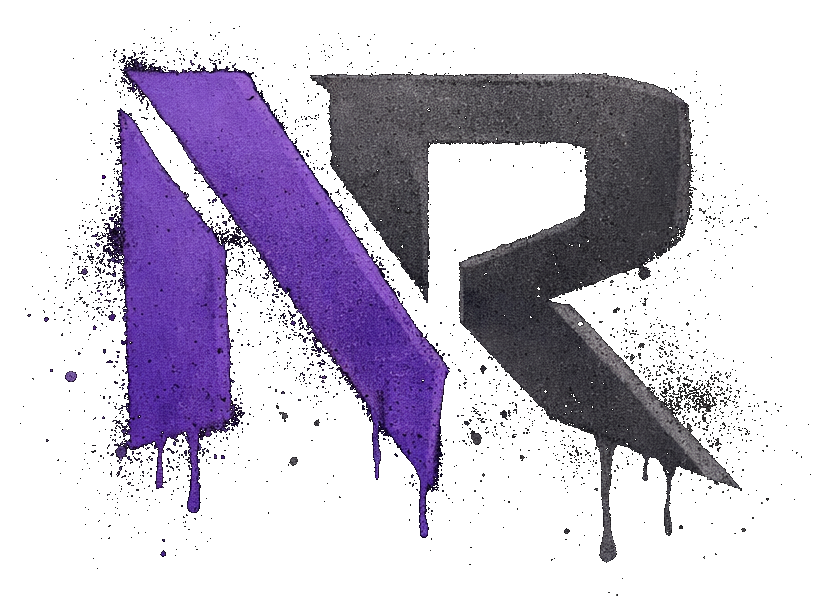
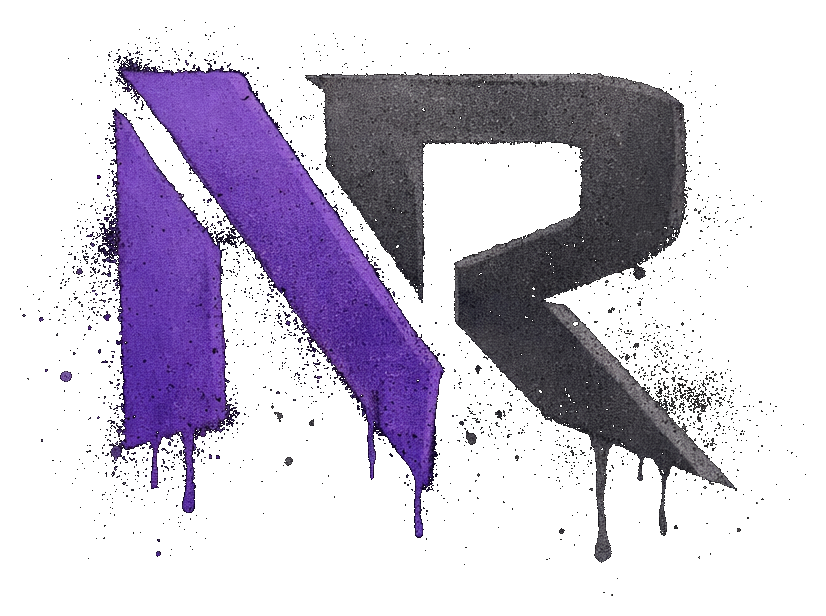
Add files via upload

diff --git a/src/style.css b/src/style.css
@@ -1,130 +1,11 @@
 @import url('https://fonts.googleapis.com/css2?family=Anton&family=Inter:wght@400;600;700;800;900&display=swap');
 
-:root{
-  --black:#020202;
-  --line:rgba(255,255,255,.13);
-  --purple:#8c2cff;
-  --purple2:#a855f7;
-  --silver:#b9b9bf;
-  --white:#f4f4f4;
-}
-
-*{box-sizing:border-box}
-html{scroll-behavior:smooth}
-body{margin:0;background:var(--black);color:var(--white);font-family:Inter,Arial,sans-serif}
-a{text-decoration:none;color:inherit}
-.site{background:#020202;min-height:100vh;overflow-x:hidden}
-.site:before{content:"";position:fixed;inset:0;pointer-events:none;z-index:50;opacity:.035;background-image:linear-gradient(rgba(255,255,255,.12) 1px,transparent 1px),linear-gradient(90deg,rgba(255,255,255,.1) 1px,transparent 1px);background-size:38px 38px}
-
-.topbar{height:86px;display:grid;grid-template-columns:275px 1fr 120px;align-items:center;gap:28px;padding:0 42px;background:#030303;border-bottom:1px solid var(--line);position:sticky;top:0;z-index:20}
-.brand-logo{display:flex;align-items:center;gap:14px}
-.nr-mark{display:block;height:auto;object-fit:contain}
-.brand-logo .nr-mark{width:76px}
-.brand-words{display:grid;gap:4px}
-.brand-words span,.main-words span{font-weight:900;letter-spacing:.31em;line-height:1;text-transform:uppercase}
-.notrite{color:var(--purple2)}
-.recordings{color:var(--silver)}
-.brand-words span{font-size:15px}
-.topbar nav{display:flex;justify-content:center;gap:clamp(13px,1.8vw,30px);font-family:Anton,Impact,sans-serif;text-transform:uppercase;letter-spacing:.1em;font-size:15px}
-.topbar nav a:first-child,.topbar nav a:hover{color:var(--purple2)}
-.social-icons{display:flex;gap:18px;justify-content:flex-end;font-size:22px}
-
-.hero{position:relative;min-height:585px;display:grid;grid-template-columns:.95fr 1.05fr;align-items:center;padding:58px 7vw;border-bottom:1px solid var(--line);overflow:hidden}
-.hero-bg{position:absolute;inset:0;background:
-  linear-gradient(90deg,rgba(0,0,0,.82) 0%,rgba(0,0,0,.48) 28%,rgba(0,0,0,.12) 54%,rgba(0,0,0,.42) 100%),
-  linear-gradient(0deg,#020202 0%,rgba(0,0,0,.06) 44%,#050505 100%),
-  url('/assets/hero-crowd.jpg') center center/cover;
-  filter:contrast(1.18) brightness(.95) saturate(1.05)
-}
-.hero-bg:after{content:"";position:absolute;inset:0;background:radial-gradient(circle at 63% 42%,rgba(140,44,255,.28),transparent 30%),linear-gradient(90deg,rgba(0,0,0,.58),transparent 48%)}
-.hero-copy,.hero-logo{position:relative;z-index:2}
-.eyebrow{margin:0 0 18px;color:var(--purple2);text-transform:uppercase;font-weight:900;letter-spacing:.28em;font-size:14px}
-.hero h1{margin:0 0 22px;font-family:Anton,Impact,sans-serif;text-transform:uppercase;font-size:clamp(54px,6.3vw,105px);line-height:.95;letter-spacing:.01em;text-shadow:0 9px 32px #000}
-.hero h1 span,.hero h1 strong{display:block}
-.hero h1 span{color:#e7e7e7}
-.hero h1 strong{color:var(--purple2);font-weight:inherit}
-.hero h1 strong:after{content:"";display:block;width:210px;height:5px;margin-top:10px;background:linear-gradient(90deg,var(--purple),transparent);transform:skew(-13deg)}
-.intro{max-width:450px;line-height:1.7;color:#eee;font-size:17px}
-.buttons{display:flex;gap:18px;flex-wrap:wrap;margin-top:28px}
-.btn{min-height:48px;padding:0 28px;display:inline-flex;align-items:center;justify-content:center;border:1px solid rgba(255,255,255,.38);font-family:Anton,Impact,sans-serif;text-transform:uppercase;letter-spacing:.14em;font-size:14px}
-.btn.primary{background:linear-gradient(135deg,#7720cf,#a855f7);border-color:transparent}
-.btn.ghost{background:rgba(0,0,0,.42)}
-.btn.small{min-height:38px;margin-top:12px}
-.scroll{display:inline-block;margin-top:24px;color:var(--purple2);text-transform:uppercase;letter-spacing:.18em;font-size:12px}
-.hero-logo{display:grid;place-items:center}
-.main-logo{text-align:center;max-width:500px}
-.main-logo .nr-mark{width:min(355px,72vw);margin:0 auto 8px;filter:drop-shadow(0 20px 36px rgba(0,0,0,.8))}
-.main-words{display:grid;gap:9px;justify-items:center}
-.main-words .notrite{font-size:clamp(32px,3.4vw,58px)}
-.main-words .recordings{font-size:clamp(23px,2.25vw,38px);letter-spacing:.34em}
-
-.featured{display:grid;grid-template-columns:330px 1fr 1.35fr;border-bottom:1px solid var(--line)}
-.featured>div,.artists{padding:34px 42px;border-right:1px solid var(--line)}
-.artists{border-right:0}
-.release-art{min-height:260px;background:radial-gradient(circle at 55% 38%,rgba(140,44,255,.36),transparent 28%),#070707;border:1px solid rgba(255,255,255,.12);display:flex;flex-direction:column;justify-content:space-between;padding:22px}
-.release-art .nr-mark{width:72px}
-.release-art h2,.release-info h2,.section-head h2,.about h2,.contact h2,.signup h2{font-family:Anton,Impact,sans-serif;text-transform:uppercase;letter-spacing:.04em;line-height:.98;margin:0}
-.release-art h2{font-size:42px}
-.release-art small,.release-info small,.release-grid small{color:var(--purple2);font-weight:900;letter-spacing:.15em}
-.release-art p,.release-info h3{color:var(--purple2);text-transform:uppercase;letter-spacing:.13em}
-.release-info h2{font-size:42px;margin:12px 0 8px}
-.release-info p{color:#d4d4d8;line-height:1.65;max-width:430px}
-.platforms{display:flex;gap:20px;flex-wrap:wrap;color:#ddd;margin-top:18px}
-.section-head{display:flex;align-items:baseline;justify-content:space-between;gap:18px;margin-bottom:20px}
-.section-head h2{font-size:32px;position:relative}
-.section-head h2:after{content:"";position:absolute;left:0;bottom:-8px;width:70px;height:3px;background:var(--purple)}
-.section-head a{color:var(--purple2);text-transform:uppercase;font-weight:800;font-size:12px;letter-spacing:.12em}
-.artist-strip{display:grid;grid-template-columns:repeat(5,1fr);gap:14px}
-.artist-strip article{min-height:185px;display:flex;flex-direction:column;justify-content:space-between;text-align:center;background:linear-gradient(180deg,rgba(255,255,255,.04),rgba(0,0,0,.6));border:1px solid rgba(255,255,255,.08);padding:17px}
-.artist-strip span{font-family:Anton,Impact,sans-serif;font-size:50px;color:rgba(255,255,255,.24);margin:auto}
-.artist-strip h3,.release-grid h3,.merch h3{font-family:Anton,Impact,sans-serif;text-transform:uppercase;letter-spacing:.05em;margin:0;font-size:18px}
-
-.releases{padding:34px 42px;border-bottom:1px solid var(--line)}
-.release-grid{display:grid;grid-template-columns:repeat(4,1fr);gap:22px}
-.mini-art,.product{aspect-ratio:1;display:grid;place-items:center;background:radial-gradient(circle at 50% 35%,rgba(140,44,255,.25),transparent 30%),#0b0b0b;border:1px solid rgba(255,255,255,.1)}
-.mini-art .nr-mark{width:54%;opacity:.86}
-.release-grid p,.merch p{margin:2px 0 0;color:#aaa;text-transform:uppercase;font-size:12px}
-
-.lower{display:grid;grid-template-columns:1fr 1fr;border-bottom:1px solid var(--line)}
-.panel{padding:34px 42px;border-bottom:1px solid var(--line);border-right:1px solid var(--line)}
-.panel:nth-child(even){border-right:0}
-.merch-grid{display:grid;grid-template-columns:repeat(4,1fr);gap:15px}
-.product{font-family:Anton,Impact,sans-serif;font-size:42px;color:#999}
-.event-card{min-height:220px;display:flex;align-items:center;gap:28px;padding:26px;background:linear-gradient(90deg,rgba(0,0,0,.75),rgba(0,0,0,.1)),url('/assets/hero-crowd.jpg') center/cover;border:1px solid rgba(255,255,255,.1)}
-.date{width:75px;height:90px;display:grid;place-items:center;border:1px solid var(--purple);font-family:Anton,Impact,sans-serif;font-size:26px;text-align:center}
-.date span{font-size:12px;color:#bbb}
-.event h3{font-family:Anton,Impact,sans-serif;text-transform:uppercase;font-size:34px;margin:0}
-.event p,.signup p{color:#bbb}
-.signup{grid-column:1 / 3;display:grid;grid-template-columns:82px 1fr 1.35fr;gap:28px;align-items:center}
-.mail-icon{width:70px;height:70px;display:grid;place-items:center;border:1px solid var(--purple);font-size:34px;box-shadow:0 0 0 14px rgba(140,44,255,.13)}
-.signup form{display:flex}
-.signup input{flex:1;min-height:50px;background:#030303;border:1px solid rgba(255,255,255,.2);color:#fff;padding:0 16px}
-.signup button{width:170px;background:linear-gradient(135deg,#7720cf,#a855f7);border:0;color:#fff;font-family:Anton,Impact,sans-serif;text-transform:uppercase;letter-spacing:.14em}
-
-.about,.contact{display:grid;grid-template-columns:1fr 1fr;gap:48px;align-items:center;padding:65px 7vw;border-bottom:1px solid var(--line)}
-.about h2,.contact h2{font-size:54px;margin:12px 0}
-.about p:not(.eyebrow),.contact p{color:#d4d4d8;line-height:1.7;max-width:640px}
-.about .main-logo{opacity:.6;transform:scale(.82)}
-.emails{display:grid;gap:12px}
-.emails a{border:1px solid rgba(255,255,255,.15);padding:16px 18px;color:#ddd}
-footer{display:grid;grid-template-columns:275px 1fr 250px;gap:30px;padding:38px 42px;color:#aaa}
-footer p{margin:0;line-height:1.7}
-
-@media(max-width:1200px){
-  .topbar{grid-template-columns:260px 1fr}.social-icons{display:none}
-  .featured{grid-template-columns:1fr 1fr}.artists{grid-column:1/3;border-top:1px solid var(--line)}
-}
-@media(max-width:900px){
-  .topbar{height:auto;display:block;padding:18px 22px}.topbar nav{margin-top:16px;overflow:auto;justify-content:flex-start;padding-bottom:8px}
-  .hero,.about,.contact{grid-template-columns:1fr}.hero{min-height:auto;padding:52px 24px}.hero-logo{margin-top:32px}
-  .featured{grid-template-columns:1fr}.featured>div,.artists{border-right:0;border-bottom:1px solid var(--line)}.artists{grid-column:auto}
-  .artist-strip,.release-grid,.merch-grid{grid-template-columns:repeat(2,1fr)}
-  .lower{grid-template-columns:1fr}.panel{border-right:0}.signup{grid-column:auto;grid-template-columns:1fr}.signup form{display:grid}.signup button{width:100%;min-height:50px}
-  footer{grid-template-columns:1fr}
-}
-@media(max-width:520px){
-  .brand-logo .nr-mark{width:66px}.brand-words span{font-size:13px}
-  .hero h1{font-size:54px}.buttons{display:grid}.btn{width:100%}
-  .artist-strip,.release-grid,.merch-grid{grid-template-columns:1fr}
-  .featured>div,.artists,.releases,.panel,.about,.contact,footer{padding-left:22px;padding-right:22px}
-}
+:root{--black:#020202;--line:rgba(255,255,255,.13);--purple:#8c2cff;--purple2:#a855f7;--silver:#b9b9bf;--white:#f4f4f4}
+*{box-sizing:border-box}html{scroll-behavior:smooth}body{margin:0;background:var(--black);color:var(--white);font-family:Inter,Arial,sans-serif}a{text-decoration:none;color:inherit}.site{background:#020202;min-height:100vh;overflow-x:hidden}.site:before{content:"";position:fixed;inset:0;pointer-events:none;z-index:50;opacity:.035;background-image:linear-gradient(rgba(255,255,255,.12) 1px,transparent 1px),linear-gradient(90deg,rgba(255,255,255,.1) 1px,transparent 1px);background-size:38px 38px}
+.topbar{height:86px;display:grid;grid-template-columns:275px 1fr 120px;align-items:center;gap:28px;padding:0 42px;background:#030303;border-bottom:1px solid var(--line);position:sticky;top:0;z-index:20}.brand-logo{display:flex;align-items:center;gap:14px}.nr-mark{display:block;height:auto;object-fit:contain}.brand-logo .nr-mark{width:76px}.brand-words{display:grid;gap:4px}.brand-words span,.main-words span{font-weight:900;letter-spacing:.31em;line-height:1;text-transform:uppercase}.notrite{color:var(--purple2)}.recordings{color:var(--silver)}.brand-words span{font-size:15px}.topbar nav{display:flex;justify-content:center;gap:clamp(13px,1.8vw,30px);font-family:Anton,Impact,sans-serif;text-transform:uppercase;letter-spacing:.1em;font-size:15px}.topbar nav a:first-child,.topbar nav a:hover{color:var(--purple2)}.social-icons{display:flex;gap:18px;justify-content:flex-end;font-size:22px}
+.hero{position:relative;min-height:585px;display:grid;grid-template-columns:.95fr 1.05fr;align-items:center;padding:58px 7vw;border-bottom:1px solid var(--line);overflow:hidden}.hero-bg{position:absolute;inset:0;background:linear-gradient(90deg,rgba(0,0,0,.82) 0%,rgba(0,0,0,.48) 28%,rgba(0,0,0,.12) 54%,rgba(0,0,0,.42) 100%),linear-gradient(0deg,#020202 0%,rgba(0,0,0,.06) 44%,#050505 100%),url('/assets/hero-crowd.jpg') center center/cover;filter:contrast(1.18) brightness(.95) saturate(1.05)}.hero-bg:after{content:"";position:absolute;inset:0;background:radial-gradient(circle at 63% 42%,rgba(140,44,255,.28),transparent 30%),linear-gradient(90deg,rgba(0,0,0,.58),transparent 48%)}.hero-copy,.hero-logo{position:relative;z-index:2}.eyebrow{margin:0 0 18px;color:var(--purple2);text-transform:uppercase;font-weight:900;letter-spacing:.28em;font-size:14px}.hero h1{margin:0 0 22px;font-family:Anton,Impact,sans-serif;text-transform:uppercase;font-size:clamp(54px,6.3vw,105px);line-height:.95;letter-spacing:.01em;text-shadow:0 9px 32px #000}.hero h1 span,.hero h1 strong{display:block}.hero h1 span{color:#e7e7e7}.hero h1 strong{color:var(--purple2);font-weight:inherit}.hero h1 strong:after{content:"";display:block;width:210px;height:5px;margin-top:10px;background:linear-gradient(90deg,var(--purple),transparent);transform:skew(-13deg)}.intro{max-width:450px;line-height:1.7;color:#eee;font-size:17px}.buttons{display:flex;gap:18px;flex-wrap:wrap;margin-top:28px}.btn{min-height:48px;padding:0 28px;display:inline-flex;align-items:center;justify-content:center;border:1px solid rgba(255,255,255,.38);font-family:Anton,Impact,sans-serif;text-transform:uppercase;letter-spacing:.14em;font-size:14px}.btn.primary{background:linear-gradient(135deg,#7720cf,#a855f7);border-color:transparent}.btn.ghost{background:rgba(0,0,0,.42)}.btn.small{min-height:38px;margin-top:12px}.hero-logo{display:grid;place-items:center}.main-logo{text-align:center;max-width:500px}.main-logo .nr-mark{width:min(355px,72vw);margin:0 auto 8px;filter:drop-shadow(0 20px 36px rgba(0,0,0,.8))}.main-words{display:grid;gap:9px;justify-items:center}.main-words .notrite{font-size:clamp(32px,3.4vw,58px)}.main-words .recordings{font-size:clamp(23px,2.25vw,38px);letter-spacing:.34em}
+.featured{display:grid;grid-template-columns:330px 1fr 1.35fr;border-bottom:1px solid var(--line)}.featured>div,.artists{padding:34px 42px;border-right:1px solid var(--line)}.artists{border-right:0}.release-art{min-height:260px;background:radial-gradient(circle at 55% 38%,rgba(140,44,255,.36),transparent 28%),#070707;border:1px solid rgba(255,255,255,.12);display:flex;flex-direction:column;justify-content:space-between;padding:22px}.release-art .nr-mark{width:72px}.release-art h2,.release-info h2,.section-head h2,.about h2,.contact h2,.signup h2{font-family:Anton,Impact,sans-serif;text-transform:uppercase;letter-spacing:.04em;line-height:.98;margin:0}.release-art h2{font-size:42px}.release-art small,.release-info small,.release-grid small{color:var(--purple2);font-weight:900;letter-spacing:.15em}.release-art p,.release-info h3{color:var(--purple2);text-transform:uppercase;letter-spacing:.13em}.release-info h2{font-size:42px;margin:12px 0 8px}.release-info p{color:#d4d4d8;line-height:1.65;max-width:430px}.platforms{display:flex;gap:20px;flex-wrap:wrap;color:#ddd;margin-top:18px}.section-head{display:flex;align-items:baseline;justify-content:space-between;gap:18px;margin-bottom:20px}.section-head h2{font-size:32px;position:relative}.section-head h2:after{content:"";position:absolute;left:0;bottom:-8px;width:70px;height:3px;background:var(--purple)}.section-head a{color:var(--purple2);text-transform:uppercase;font-weight:800;font-size:12px;letter-spacing:.12em}.artist-strip{display:grid;grid-template-columns:repeat(5,1fr);gap:14px}.artist-strip article{min-height:185px;display:flex;flex-direction:column;justify-content:space-between;text-align:center;background:linear-gradient(180deg,rgba(255,255,255,.04),rgba(0,0,0,.6));border:1px solid rgba(255,255,255,.08);padding:17px}.artist-strip span{font-family:Anton,Impact,sans-serif;font-size:50px;color:rgba(255,255,255,.24);margin:auto}.artist-strip h3,.release-grid h3,.merch h3{font-family:Anton,Impact,sans-serif;text-transform:uppercase;letter-spacing:.05em;margin:0;font-size:18px}
+.releases{padding:34px 42px;border-bottom:1px solid var(--line)}.release-grid{display:grid;grid-template-columns:repeat(4,1fr);gap:22px}.mini-art,.product{aspect-ratio:1;display:grid;place-items:center;background:radial-gradient(circle at 50% 35%,rgba(140,44,255,.25),transparent 30%),#0b0b0b;border:1px solid rgba(255,255,255,.1)}.mini-art{position:relative;isolation:isolate;overflow:hidden}.mini-art:before{content:"";position:absolute;inset:0;z-index:0;background:linear-gradient(135deg,rgba(255,255,255,.08),transparent 38%),radial-gradient(circle at 70% 30%,rgba(168,85,247,.42),transparent 24%),linear-gradient(160deg,rgba(0,0,0,.2),rgba(0,0,0,.85))}.release-1 .mini-art{background:radial-gradient(circle at 68% 30%,rgba(168,85,247,.55),transparent 28%),linear-gradient(135deg,#14051f,#050505 62%,#2b0a43)}.release-2 .mini-art{background:radial-gradient(circle at 30% 35%,rgba(125,37,216,.5),transparent 25%),linear-gradient(135deg,#060606,#101018 48%,#2a1150)}.release-3 .mini-art{background:radial-gradient(circle at 60% 70%,rgba(168,85,247,.42),transparent 28%),repeating-linear-gradient(135deg,rgba(255,255,255,.055) 0 2px,transparent 2px 13px),linear-gradient(135deg,#080808,#1a0630)}.release-4 .mini-art{background:radial-gradient(circle at 45% 42%,rgba(140,44,255,.58),transparent 27%),linear-gradient(90deg,rgba(255,255,255,.05),transparent),linear-gradient(135deg,#090909,#220a36)}.mini-art .nr-mark{width:54%;opacity:.88;position:relative;z-index:2;filter:drop-shadow(0 14px 25px rgba(0,0,0,.75))}.mini-art span{position:absolute;z-index:3;left:12px;bottom:12px;border:1px solid rgba(255,255,255,.24);background:rgba(0,0,0,.45);backdrop-filter:blur(8px);color:#fff;padding:7px 9px;font-size:10px;font-weight:900;text-transform:uppercase;letter-spacing:.12em}.art-noise{position:absolute;inset:0;z-index:1;opacity:.17;background-image:linear-gradient(rgba(255,255,255,.18) 1px,transparent 1px),linear-gradient(90deg,rgba(255,255,255,.12) 1px,transparent 1px);background-size:18px 18px;mix-blend-mode:screen}.release-grid p,.merch p{margin:2px 0 0;color:#aaa;text-transform:uppercase;font-size:12px}.release-tile em{display:inline-block;margin-top:7px;color:var(--purple2);font-size:11px;font-style:normal;text-transform:uppercase;letter-spacing:.14em;font-weight:900}
+.lower{display:grid;grid-template-columns:1fr 1fr;border-bottom:1px solid var(--line)}.panel{padding:34px 42px;border-bottom:1px solid var(--line);border-right:1px solid var(--line)}.panel:nth-child(even){border-right:0}.merch-grid{display:grid;grid-template-columns:repeat(4,1fr);gap:15px}.product{font-family:Anton,Impact,sans-serif;font-size:42px;color:#999}.event-card{min-height:220px;display:flex;align-items:center;gap:28px;padding:26px;background:linear-gradient(90deg,rgba(0,0,0,.75),rgba(0,0,0,.1)),url('/assets/hero-crowd.jpg') center/cover;border:1px solid rgba(255,255,255,.1)}.date{width:75px;height:90px;display:grid;place-items:center;border:1px solid var(--purple);font-family:Anton,Impact,sans-serif;font-size:26px;text-align:center}.date span{font-size:12px;color:#bbb}.event h3{font-family:Anton,Impact,sans-serif;text-transform:uppercase;font-size:34px;margin:0}.event p,.signup p{color:#bbb}.signup{grid-column:1/3;display:grid;grid-template-columns:82px 1fr 1.35fr;gap:28px;align-items:center}.mail-icon{width:70px;height:70px;display:grid;place-items:center;border:1px solid var(--purple);font-size:34px;box-shadow:0 0 0 14px rgba(140,44,255,.13)}.signup form{display:flex}.signup input{flex:1;min-height:50px;background:#030303;border:1px solid rgba(255,255,255,.2);color:#fff;padding:0 16px}.signup button{width:170px;background:linear-gradient(135deg,#7720cf,#a855f7);border:0;color:#fff;font-family:Anton,Impact,sans-serif;text-transform:uppercase;letter-spacing:.14em}
+.about,.contact{display:grid;grid-template-columns:1fr 1fr;gap:48px;align-items:center;padding:65px 7vw;border-bottom:1px solid var(--line)}.about h2,.contact h2{font-size:54px;margin:12px 0}.about p:not(.eyebrow),.contact p{color:#d4d4d8;line-height:1.7;max-width:640px}.about .main-logo{opacity:.6;transform:scale(.82)}.emails{display:grid;gap:12px}.emails a{border:1px solid rgba(255,255,255,.15);padding:16px 18px;color:#ddd}footer{display:grid;grid-template-columns:275px 1fr 250px;gap:30px;padding:38px 42px;color:#aaa}footer p{margin:0;line-height:1.7}
+@media(max-width:1200px){.topbar{grid-template-columns:260px 1fr}.social-icons{display:none}.featured{grid-template-columns:1fr 1fr}.artists{grid-column:1/3;border-top:1px solid var(--line)}}@media(max-width:900px){.topbar{height:auto;display:block;padding:18px 22px}.topbar nav{margin-top:16px;overflow:auto;justify-content:flex-start;padding-bottom:8px}.hero,.about,.contact{grid-template-columns:1fr}.hero{min-height:auto;padding:52px 24px}.hero-logo{margin-top:32px}.featured{grid-template-columns:1fr}.featured>div,.artists{border-right:0;border-bottom:1px solid var(--line)}.artists{grid-column:auto}.artist-strip,.release-grid,.merch-grid{grid-template-columns:repeat(2,1fr)}.lower{grid-template-columns:1fr}.panel{border-right:0}.signup{grid-column:auto;grid-template-columns:1fr}.signup form{display:grid}.signup button{width:100%;min-height:50px}footer{grid-template-columns:1fr}}@media(max-width:520px){.brand-logo .nr-mark{width:66px}.brand-words span{font-size:13px}.hero h1{font-size:54px}.buttons{display:grid}.btn{width:100%}.artist-strip,.release-grid,.merch-grid{grid-template-columns:1fr}.featured>div,.artists,.releases,.panel,.about,.contact,footer{padding-left:22px;padding-right:22px}}

diff --git a/src/main.jsx b/src/main.jsx
@@ -2,16 +2,22 @@ import React from 'react';
 import { createRoot } from 'react-dom/client';
 import './style.css';
 
+const releases = [
+  { code: 'NR001', title: 'Signal Pressure', artist: 'Notrite Recordings', tag: 'Liquid / Roller', status: 'Out Soon' },
+  { code: 'NR002', title: 'After Hours', artist: 'NR Collective', tag: 'Deep / Vocal', status: 'Preview' },
+  { code: 'NR003', title: 'Northbound', artist: 'Various Artists', tag: 'Jungle / Breaks', status: 'Pre-Save' },
+  { code: 'NR004', title: 'No Limits', artist: 'Notrite Sessions', tag: 'Bass Music', status: 'Coming Soon' }
+];
+
 const artists = ['Roster', 'DJs', 'Producers', 'Vocalists', 'Collaborators'];
-const releases = ['NR001', 'NR002', 'NR003', 'NR004'];
 
 function NRMark({ className = '' }) {
   return <img className={`nr-mark ${className}`} src="/assets/nr-mark.png" alt="NR" />;
 }
 
-function BrandLogo({ className = '' }) {
+function BrandLogo() {
   return (
-    <div className={`brand-logo ${className}`}>
+    <div className="brand-logo">
       <NRMark />
       <div className="brand-words">
         <span className="notrite">NOTRITE</span>
@@ -38,7 +44,6 @@ function App() {
     <main className="site">
       <header className="topbar">
         <a href="#home"><BrandLogo /></a>
-
         <nav>
           <a href="#home">Home</a>
           <a href="#releases">Releases</a>
@@ -49,7 +54,6 @@ function App() {
           <a href="#about">About</a>
           <a href="#contact">Contact</a>
         </nav>
-
         <div className="social-icons">
           <a href="#">◎</a>
           <a href="#">☁</a>
@@ -75,7 +79,6 @@ function App() {
             <a className="btn primary" href="#featured">Latest Release →</a>
             <a className="btn ghost" href="#demos">Demo Submissions</a>
           </div>
-          <a className="scroll" href="#featured">Scroll ↓</a>
         </div>
 
         <div className="hero-logo">
@@ -84,28 +87,28 @@ function App() {
       </section>
 
       <section id="featured" className="featured">
-        <div className="release-art">
+        <div className="release-art feature-art">
           <NRMark />
           <div>
             <small>NR001</small>
-            <h2>Coming Soon</h2>
-            <p>First release</p>
+            <h2>Signal Pressure</h2>
+            <p>Out Soon</p>
           </div>
         </div>
 
         <div className="release-info">
           <small>NR001</small>
-          <h2>Notrite Launch Release</h2>
-          <h3>Artist / Title TBA</h3>
+          <h2>Signal Pressure</h2>
+          <h3>Notrite Recordings / Launch Drop</h3>
           <p>
-            Our first official release is coming soon. Expect underground energy,
-            heavyweight production and forward-thinking music.
+            A heavyweight first drop built around underground pressure, rolling basslines
+            and future-facing energy. Placeholder release content for launch preview.
           </p>
           <div className="platforms">
             <span>Spotify</span><span>SoundCloud</span><span>Bandcamp</span>
           </div>
           <div className="buttons">
-            <a className="btn primary" href="#">Listen Soon →</a>
+            <a className="btn primary" href="#">Pre-Save Soon →</a>
             <a className="btn ghost" href="#demos">Send Demo</a>
           </div>
         </div>
@@ -132,12 +135,17 @@ function App() {
           <a href="#">View all releases →</a>
         </div>
         <div className="release-grid">
-          {releases.map((code) => (
-            <article key={code}>
-              <div className="mini-art"><NRMark /></div>
-              <small>{code}</small>
-              <h3>Coming Soon</h3>
-              <p>Notrite Recordings</p>
+          {releases.map((release, index) => (
+            <article className={`release-tile release-${index + 1}`} key={release.code}>
+              <div className="mini-art">
+                <NRMark />
+                <div className="art-noise" />
+                <span>{release.status}</span>
+              </div>
+              <small>{release.code}</small>
+              <h3>{release.title}</h3>
+              <p>{release.artist}</p>
+              <em>{release.tag}</em>
             </article>
           ))}
         </div>